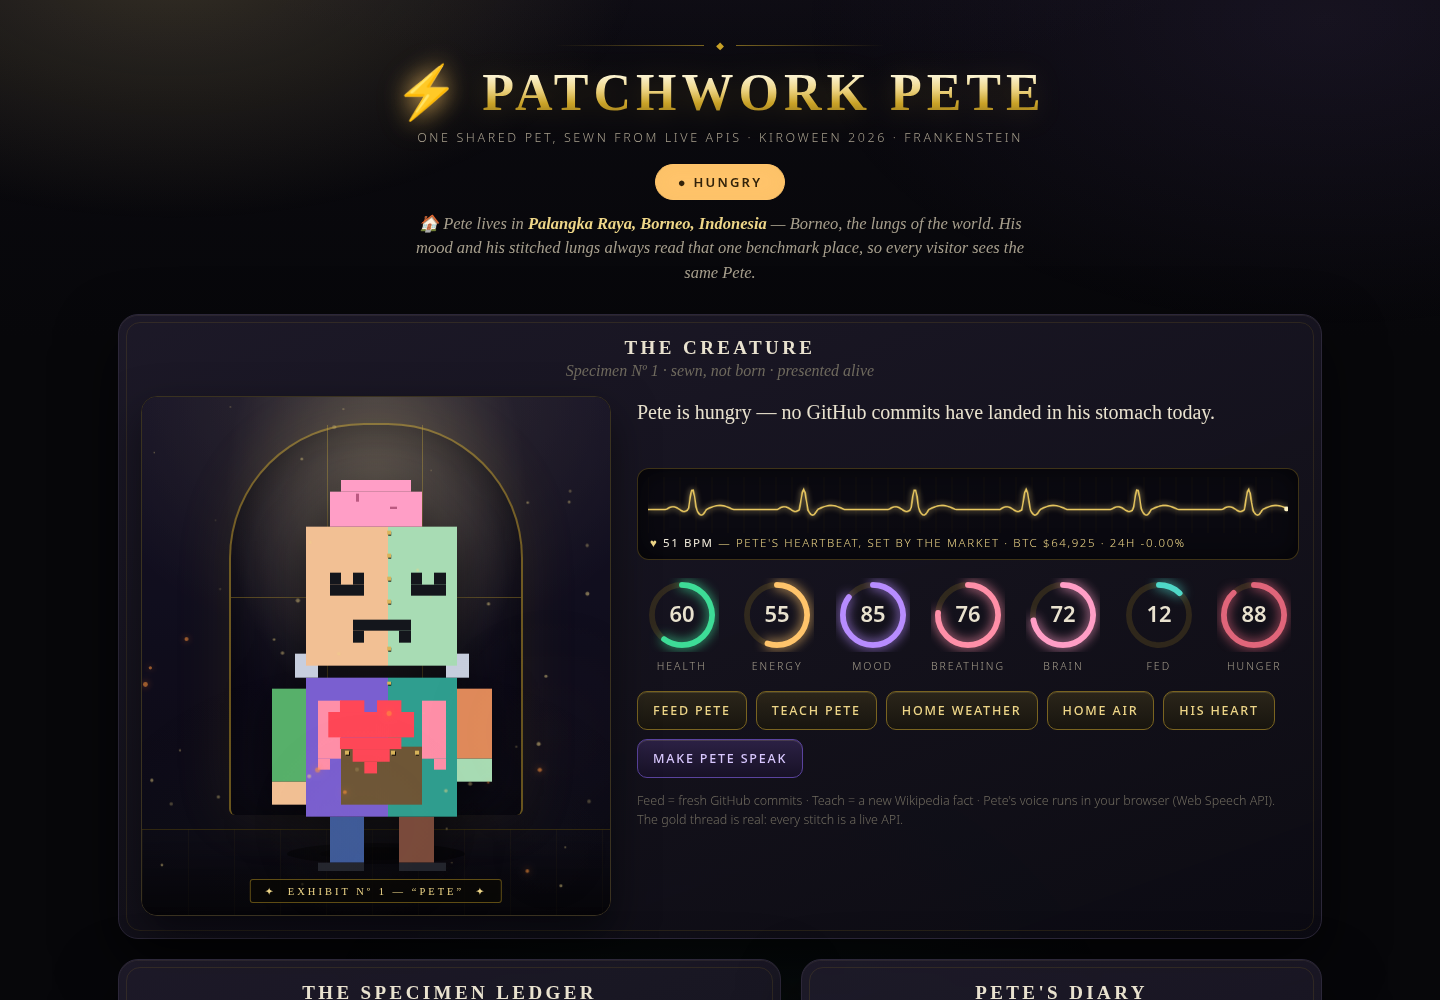
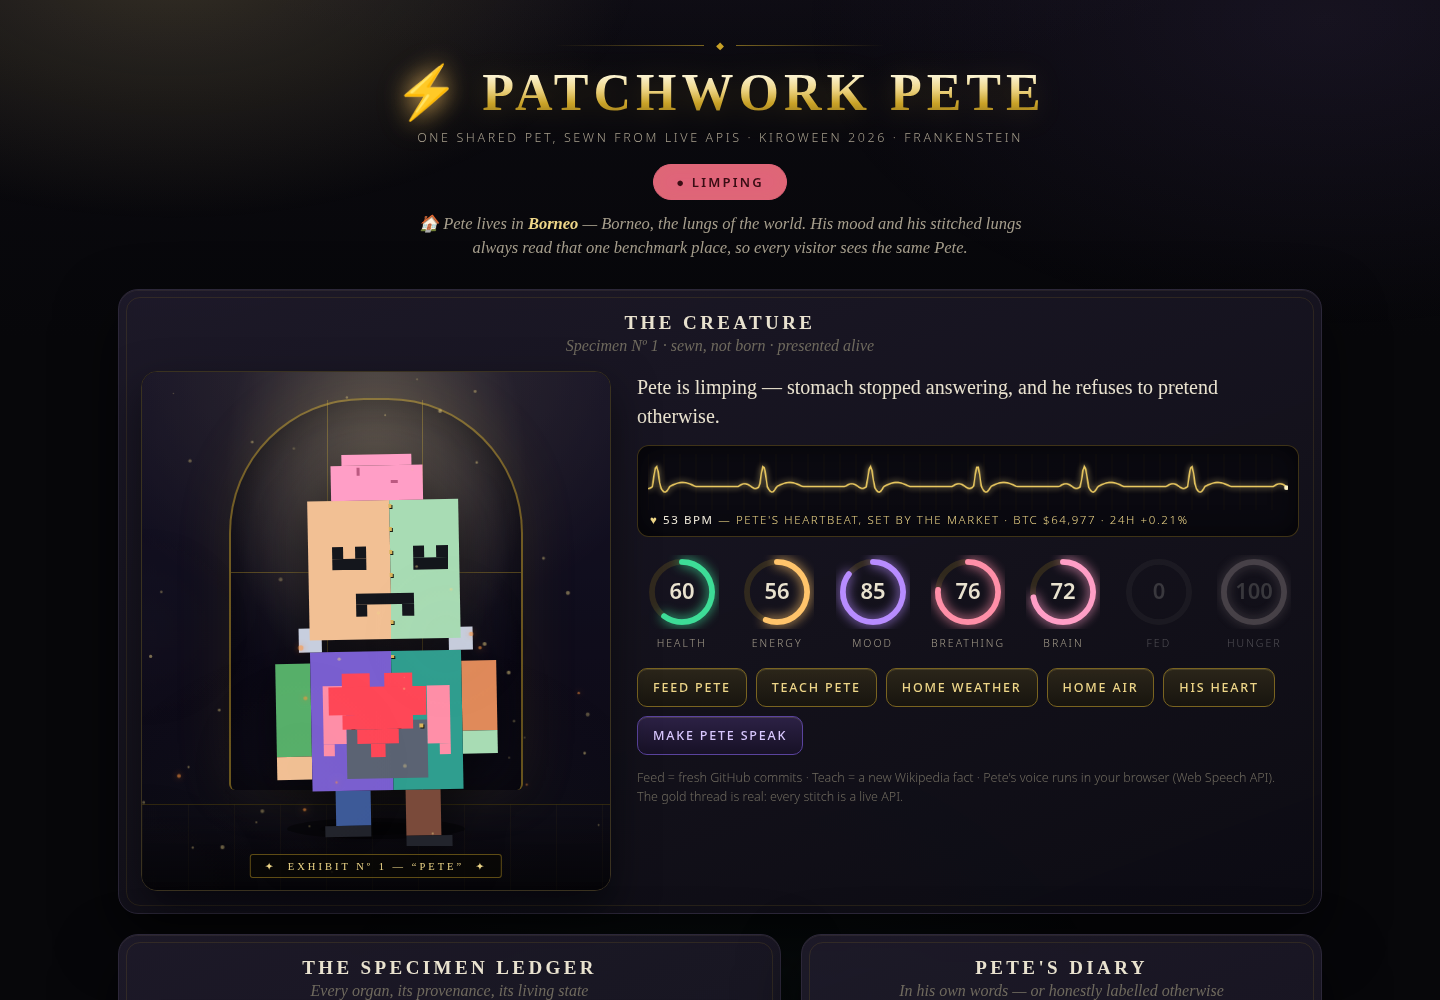
Home label is simply 'Borneo' (Rev's call: no city, province, or country names)

diff --git a/test/state.test.js b/test/state.test.js
@@ -9,10 +9,10 @@ const dead = (organ) => ({ organ, source: 'test', ok: false, data: null, error: 
 
 const healthy = () => ({
   heart: ok('heart', { priceUsd: 65000, change24hPct: 4.2 }),
-  mood: ok('mood', { weatherCode: 0, condition: 'clear', temperatureC: 31, windKmh: 6, location: 'Palangka Raya, Borneo, Indonesia' }),
+  mood: ok('mood', { weatherCode: 0, condition: 'clear', temperatureC: 31, windKmh: 6, location: 'Borneo' }),
   brain: ok('brain', { currentFact: { title: 'Octopus' }, memory: [{ title: 'Octopus' }, { title: 'Moon' }, { title: 'Tea' }] }),
   stomach: ok('stomach', { commitsToday: 4, pushesToday: 2, lastPushAt: new Date().toISOString(), user: 'Revaaa28' }),
-  lungs: ok('lungs', { pm25: 8.2, pm10: 12, aqiUs: 30, aqiEu: 18, condition: 'clean', location: 'Palangka Raya, Borneo, Indonesia' }),
+  lungs: ok('lungs', { pm25: 8.2, pm10: 12, aqiUs: 30, aqiEu: 18, condition: 'clean', location: 'Borneo' }),
 });
 
 test('all organs healthy -> thriving, no grey parts, not limping', () => {
@@ -50,7 +50,7 @@ test('GitHub zero commits today -> hungry', () => {
 
 test('storm weather -> scared face and gloomy state', () => {
   const r = healthy();
-  r.mood = ok('mood', { weatherCode: 95, condition: 'storm', temperatureC: 26, windKmh: 40, location: 'Palangka Raya, Borneo, Indonesia' });
+  r.mood = ok('mood', { weatherCode: 95, condition: 'storm', temperatureC: 26, windKmh: 40, location: 'Borneo' });
   const s = computeState(r);
   assert.equal(s.face, 'scared');
   assert.equal(s.overall, 'gloomy');
@@ -65,7 +65,7 @@ test('deterministic: same readings in, same state out', () => {
 
 test('rain -> gloomy even when fed', () => {
   const r = healthy();
-  r.mood = ok('mood', { weatherCode: 63, condition: 'rain', temperatureC: 27, windKmh: 9, location: 'Palangka Raya, Borneo, Indonesia' });
+  r.mood = ok('mood', { weatherCode: 63, condition: 'rain', temperatureC: 27, windKmh: 9, location: 'Borneo' });
   const s = computeState(r);
   assert.equal(s.overall, 'gloomy');
   assert.equal(s.face, 'gloomy');
@@ -80,7 +80,7 @@ test('clean Borneo air -> breathing easy, no smoke', () => {
 
 test('haze-level PM2.5 -> Pete coughs, overall smoky', () => {
   const r = healthy();
-  r.lungs = ok('lungs', { pm25: 132, pm10: 190, aqiUs: 178, aqiEu: 150, condition: 'haze', location: 'Palangka Raya, Borneo, Indonesia' });
+  r.lungs = ok('lungs', { pm25: 132, pm10: 190, aqiUs: 178, aqiEu: 150, condition: 'haze', location: 'Borneo' });
   const s = computeState(r);
   assert.equal(s.overall, 'smoky');
   assert.equal(s.smoky, true);

diff --git a/src/location.js b/src/location.js
@@ -10,18 +10,19 @@
 // Home is configurable in exactly one place — environment variables:
 //   PETE_HOME_NAME  (default: the placeholder below)
 //   PETE_HOME_LAT, PETE_HOME_LON
-// Default home (Rev's pick, 2026-11-17): Palangka Raya, Central Kalimantan,
-// Borneo — the peat-haze heart of the "lungs of the world". When Borneo's
-// air is clean Pete breathes easy; when haze rolls in, Pete coughs. Rev may
-// re-point Pete's home by setting the env vars; no code change is needed
-// and nothing else in the codebase hard-codes a home city.
+// Default home (Rev's pick, 2026-11-17): Borneo — the peat-haze heart of
+// the "lungs of the world", labelled simply "Borneo" everywhere (Rev's
+// call: no city, province, or country names). When Borneo's air is clean
+// Pete breathes easy; when haze rolls in, Pete coughs. Rev may re-point
+// Pete's home by setting the env vars; no code change is needed and
+// nothing else in the codebase hard-codes a home place.
 //
 // Visitor locations are a separate, comparison-only concern ("Your air vs
 // Pete's air"): normalizeLocation() validates them, and they never feed
 // Pete's official state, scores, or diary.
 
 const HOME = {
-  name: process.env.PETE_HOME_NAME || 'Palangka Raya, Borneo, Indonesia',
+  name: process.env.PETE_HOME_NAME || 'Borneo',
   lat: Number.isFinite(Number(process.env.PETE_HOME_LAT)) && process.env.PETE_HOME_LAT !== undefined
     ? Number(process.env.PETE_HOME_LAT) : -2.21,
   lon: Number.isFinite(Number(process.env.PETE_HOME_LON)) && process.env.PETE_HOME_LON !== undefined

diff --git a/public/index.html b/public/index.html
@@ -4,7 +4,7 @@
 <meta charset="UTF-8">
 <meta name="viewport" content="width=device-width, initial-scale=1.0">
 <title>Patchwork Pete — a pet sewn from live APIs</title>
-<meta name="description" content="Patchwork Pete is one shared virtual pet sewn from live, incompatible APIs. He lives in Palangka Raya, Borneo — the lungs of the world: CoinGecko is his heart, Borneo's weather is his face, Borneo's real air fills his stitched lungs, Wikipedia is his brain, GitHub commits are his food. When Borneo burns, Pete coughs.">
+<meta name="description" content="Patchwork Pete is one shared virtual pet sewn from live, incompatible APIs. He lives in Borneo — the lungs of the world: CoinGecko is his heart, Borneo's weather is his face, Borneo's real air fills his stitched lungs, Wikipedia is his brain, GitHub commits are his food. When Borneo burns, Pete coughs.">
 <link rel="preconnect" href="https://fonts.googleapis.com">
 <link rel="preconnect" href="https://fonts.gstatic.com" crossorigin>
 <link href="https://fonts.googleapis.com/css2?family=Cinzel:wght@500;700;900&family=Cormorant+Garamond:ital,wght@0,500;0,600;1,500;1,600&family=Jost:wght@300;400;500;600&display=swap" rel="stylesheet">

diff --git a/test/organs.test.js b/test/organs.test.js
@@ -72,10 +72,10 @@ test('lungs adapter: two locations return location-labelled readings (mock fetch
     seen.push(url);
     return { ok: true, status: 200, json: async () => ({ current: { pm2_5: 9, pm10: 14, us_aqi: 34, european_aqi: 20 } }) };
   };
-  const a = await getLungs({ force: true, fetchFn: aqFetch, firmsKey: '', location: { lat: -2.21, lon: 113.92, place: 'Palangka Raya, Borneo, Indonesia' } });
+  const a = await getLungs({ force: true, fetchFn: aqFetch, firmsKey: '', location: { lat: -2.21, lon: 113.92, place: 'Borneo' } });
   const b = await getLungs({ force: true, fetchFn: aqFetch, firmsKey: '', location: { lat: -33.8688, lon: 151.2093, place: 'Sydney, Australia' } });
   assert.equal(a.ok, true);
-  assert.equal(a.data.location, 'Palangka Raya, Borneo, Indonesia');
+  assert.equal(a.data.location, 'Borneo');
   assert.equal(b.data.location, 'Sydney, Australia');
   assert.equal(a.data.condition, 'clean');
   assert.equal(a.data.fireHotspots24h, null); // no FIRMS key -> honestly null

diff --git a/src/organs/lungs.js b/src/organs/lungs.js
@@ -2,7 +2,7 @@
 
 // LUNGS — Open-Meteo Air Quality API (keyless) for the visitor's chosen
 // location. Pete breathes the real air there: PM2.5, PM10 and US AQI decide
-// whether he breathes easy or coughs — peat-fire haze in Kalimantan, winter
+// whether he breathes easy or coughs — peat-fire haze in Borneo, winter
 // smog in Delhi, a clear day in Sydney; wherever the visitor puts him.
 //
 // Optional extra: NASA FIRMS fire hotspots around the location are counted

diff --git a/src/organs/stomach.js b/src/organs/stomach.js
@@ -20,7 +20,7 @@ const EVENTS_URL = `https://api.github.com/users/${USER}/events/public?per_page=
 const cache = makeCache(60 * 1000);
 
 function todayAtHome(now = new Date()) {
-  // Pete's home, Palangka Raya, keeps Asia/Pontianak time: UTC+7, no DST.
+  // Pete's home in Borneo keeps UTC+7 time (Asia/Pontianak), no DST.
   const shifted = new Date(now.getTime() + 7 * 60 * 60 * 1000);
   return shifted.toISOString().slice(0, 10);
 }

diff --git a/public/app.js b/public/app.js
@@ -453,7 +453,7 @@ $('speakBtn').addEventListener('click', () => {
 
 /* ---------- comparison panel: your air vs Pete's Borneo air ---------- */
 const PRESETS = [
-  ['Jakarta, Indonesia', -6.2088, 106.8456],
+  ['Jakarta', -6.2088, 106.8456],
   ['New Delhi, India', 28.6139, 77.209],
   ['Beijing, China', 39.9042, 116.4074],
   ['Los Angeles, USA', 34.0522, -118.2437],

diff --git a/README.md b/README.md
@@ -7,7 +7,7 @@ Pete has no insides of his own. Each of his organs *is* a real third-party API, 
 
 ## Pete lives in Borneo 🌴
 
-Pete is **one shared creature** with **one home**: **Palangka Raya, Central Kalimantan, Borneo** — the peat-haze heart of the island they call *the lungs of the world*. His stitched-on lungs breathe Borneo's real air, and his face wears Borneo's real weather. When the rainforest air is clean, Pete breathes easy. When Borneo burns and the haze rolls in, Pete coughs — visibly, in the pixel art, in his scores, and in his diary.
+Pete is **one shared creature** with **one home**: **Borneo** — the peat-haze heart of the island they call *the lungs of the world*. His stitched-on lungs breathe Borneo's real air, and his face wears Borneo's real weather. When the rainforest air is clean, Pete breathes easy. When Borneo burns and the haze rolls in, Pete coughs — visibly, in the pixel art, in his scores, and in his diary.
 
 Because home is a single benchmark, every visitor and judge sees the **same Pete**, and his state is comparable day to day. Home is configured in exactly one place (environment: `PETE_HOME_NAME`, `PETE_HOME_LAT`, `PETE_HOME_LON` — see `src/location.js`); nothing else in the code hard-codes it.
 
@@ -49,7 +49,7 @@ npm test           # state-engine + adapter contract tests
 ```
 
 Optional environment:
-- `PETE_HOME_NAME`, `PETE_HOME_LAT`, `PETE_HOME_LON` — re-point Pete's benchmark home (default: Palangka Raya, Borneo, Indonesia · −2.21, 113.92).
+- `PETE_HOME_NAME`, `PETE_HOME_LAT`, `PETE_HOME_LON` — re-point Pete's benchmark home (default: Borneo · −2.21, 113.92).
 - `GEMINI_API_KEY` — enables Gemini-written diary lines (falls back to labelled templates without it).
 - `GITHUB_TOKEN` — raises the GitHub API rate limit for the stomach organ. Without it, a rate-limited response shows up honestly as a dead stomach, never as "zero commits".
 - `FIRMS_MAP_KEY` — enables NASA FIRMS fire-hotspot counts around Pete's home in the lungs reading. Without it, the lungs work on Open-Meteo air quality alone and the FIRMS field is reported as not configured.

diff --git a/.kiro/specs/organ-adapters/design.md b/.kiro/specs/organ-adapters/design.md
@@ -20,7 +20,7 @@ server.js               official state: home readings -> computeState -> diary
 - **Adapters resolve, never reject.** The server can `Promise.all` without one organ's outage taking the whole pet down; failure is data (`ok:false`), not control flow.
 - **Dependency injection for tests.** Each getter accepts `{ force, fetchFn }`; tests pass fake fetch functions to prove both the mapping and the honest-failure path without touching the network.
 - **Brain memory semantics.** A plain read returns Pete's current fact (learning is an event, not a poll). `force` ("Teach Pete") fetches a new article, unshifts it into the 5-fact memory, and de-dupes consecutive repeats.
-- **Home day boundary.** GitHub timestamps are UTC; "today" for feeding is Pete's home day (Palangka Raya: Asia/Pontianak, UTC+7, no DST) — Pete eats on home time (`todayAtHome` in stomach.js, covered by tests).
+- **Home day boundary.** GitHub timestamps are UTC; "today" for feeding is Pete's home day (Borneo home: UTC+7, no DST) — Pete eats on home time (`todayAtHome` in stomach.js, covered by tests).
 - **Stomach counts real commits, not vibes.** Verified live 2026-11-17: the events feed's PushEvent payloads no longer carry a commits array. The adapter therefore uses events only to find today's pushed repos, then counts commits via `GET /repos/{repo}/commits?author=…&since=<home midnight>`. If that call fails for a repo, it falls back to one serving per push and reports `method:'push-fallback'` in the reading.
 - **Diary caching.** A new diary entry is generated only when the state signature (overall|face|dead organs|commits) changes, or on Teach — the Gemini free tier is never burned per pageview.
 - **Timeouts.** Every outbound call aborts at 9s; a slow API becomes a dead organ, not a hung page.

diff --git a/.kiro/steering/stitch-architecture.md b/.kiro/steering/stitch-architecture.md
@@ -10,7 +10,7 @@ These rules bind every change to Patchwork Pete, human- or agent-written.
 5. **Failures are shown, not hidden.** The UI must render dead organs as dead (grey part, red stitch-map card, the real error text). Never catch-and-substitute in the UI either.
 
 ## One home, one Pete (benchmark rule)
-- Pete lives in ONE benchmark home, configured only in `src/location.js` (env `PETE_HOME_NAME` / `PETE_HOME_LAT` / `PETE_HOME_LON`; default Palangka Raya, Borneo — the "lungs of the world" framing). His official mood and breathing come only from home's weather and air (standard US AQI / PM2.5 bands).
+- Pete lives in ONE benchmark home, configured only in `src/location.js` (env `PETE_HOME_NAME` / `PETE_HOME_LAT` / `PETE_HOME_LON`; default Borneo — the "lungs of the world" framing). His official mood and breathing come only from home's weather and air (standard US AQI / PM2.5 bands).
 - Visitor locations are comparison-only ("Your Air vs Pete's Borneo Air", `/api/compare`). They must never feed Pete's state, scores, or diary, and copy must never present a visitor's or a default place's air as Pete's.
 - The lungs organ breathes home air via Open-Meteo Air Quality; NASA FIRMS hotspots are counted only when `FIRMS_MAP_KEY` is configured — otherwise the field is null and labelled as not configured.
 

diff --git a/.kiro/specs/organ-adapters/requirements.md b/.kiro/specs/organ-adapters/requirements.md
@@ -26,7 +26,7 @@ Every adapter resolves (never rejects) to:
 | diary | Gemini `generateContent` | `GEMINI_API_KEY` | per state-change | narration only; template fallback labelled `source:'template'` |
 
 ## Location law (benchmark + comparison)
-- Pete is ONE shared creature with ONE benchmark home, configured in exactly one place (`src/location.js`, env `PETE_HOME_NAME` / `PETE_HOME_LAT` / `PETE_HOME_LON`; default Palangka Raya, Borneo, Indonesia · −2.21, 113.92).
+- Pete is ONE shared creature with ONE benchmark home, configured in exactly one place (`src/location.js`, env `PETE_HOME_NAME` / `PETE_HOME_LAT` / `PETE_HOME_LON`; default Borneo · −2.21, 113.92).
 - The mood and lungs adapters accept a location parameter, but the server's official state path SHALL always pass Pete's home. Caches are keyed by rounded coordinates so readings never mix.
 - Visitor locations (geolocation / geocoding search / presets) SHALL be served only by the comparison endpoint (`/api/compare`) and SHALL NOT influence Pete's state, scores, or diary.
 

diff --git a/.kiro/specs/organ-adapters/tasks.md b/.kiro/specs/organ-adapters/tasks.md
@@ -11,6 +11,6 @@ Feature: `organ-adapters`
 - [x] 7. Adapter contract tests with injected fake fetch (`test/organs.test.js`)
 - [x] 8. Live-verify all HTTP APIs from the build VM (2026-11-17)
 - [x] 9. Lungs adapter (Open-Meteo Air Quality at home; FIRMS hotspots only with `FIRMS_MAP_KEY`)
-- [x] 10. Benchmark-home design: `src/location.js` single config (env `PETE_HOME_*`, default Palangka Raya, Borneo); location-parameterised mood/lungs with per-coordinate caches
+- [x] 10. Benchmark-home design: `src/location.js` single config (env `PETE_HOME_*`, default Borneo); location-parameterised mood/lungs with per-coordinate caches
 - [x] 11. Comparison-only visitor location: `/api/compare` + `/api/geocode`, presets, browser geolocation — never feeds Pete's state
 - [ ] 12. Re-run this spec through a live Kiro CLI session (scheduled Dec 1–2, after the monthly request-limit reset) and reconcile any drift Kiro proposes
